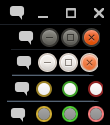
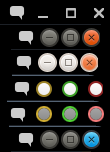
small info update.

diff --git a/README.md b/README.md
@@ -8,16 +8,17 @@ Supports custom button layouts and css theming!
     <td><img src="https://github.com/mathematicalcoffee/Gnome-Shell-Window-Buttons-Extension/raw/master/screenshot.png" alt="Screenshot" /></td>
   </tr>
   <tr>
-    <td>Current (14/Aug/2012) themes, top-to-bottom: default, Ambiance, Radiance, Zukwito, Zukwito-Dark</td>
+    <td>Current (31/Aug/2012) themes, top-to-bottom: default, Ambiance, Ambiance-Blue, Radiance, Zukwito, Zukwito-Dark</td>
   </tr>
 </table>
 
 Configure with `gnome-shell-extension-prefs` (GNOME 3.4) or by editing `extension.js` (GNOME 3.2).
 
 Author: biox (Josiah Messiah)   
-Maintainer: mathematical.coffee <mathematical.coffee@gmail.com>
+Maintainers: mathematical.coffee <mathematical.coffee@gmail.com>
+             arkan duthrey <arkan1313@gmail.com>
 
-Note - the [mathematicalcoffee fork](https://github.com/mathematicalcoffee/Gnome-Shell-Window-Buttons-Extension) of this extension is where development happens, and it all then gets pushed to the original [biox repository](https://github.com/biox/Gnome-Shell-Window-Buttons-Extension).
+Note - This is a fork of the original repository, hopefully later on I'll push my changes to [biox repository](https://github.com/biox/Gnome-Shell-Window-Buttons-Extension)
 
 Installation
 ------------
